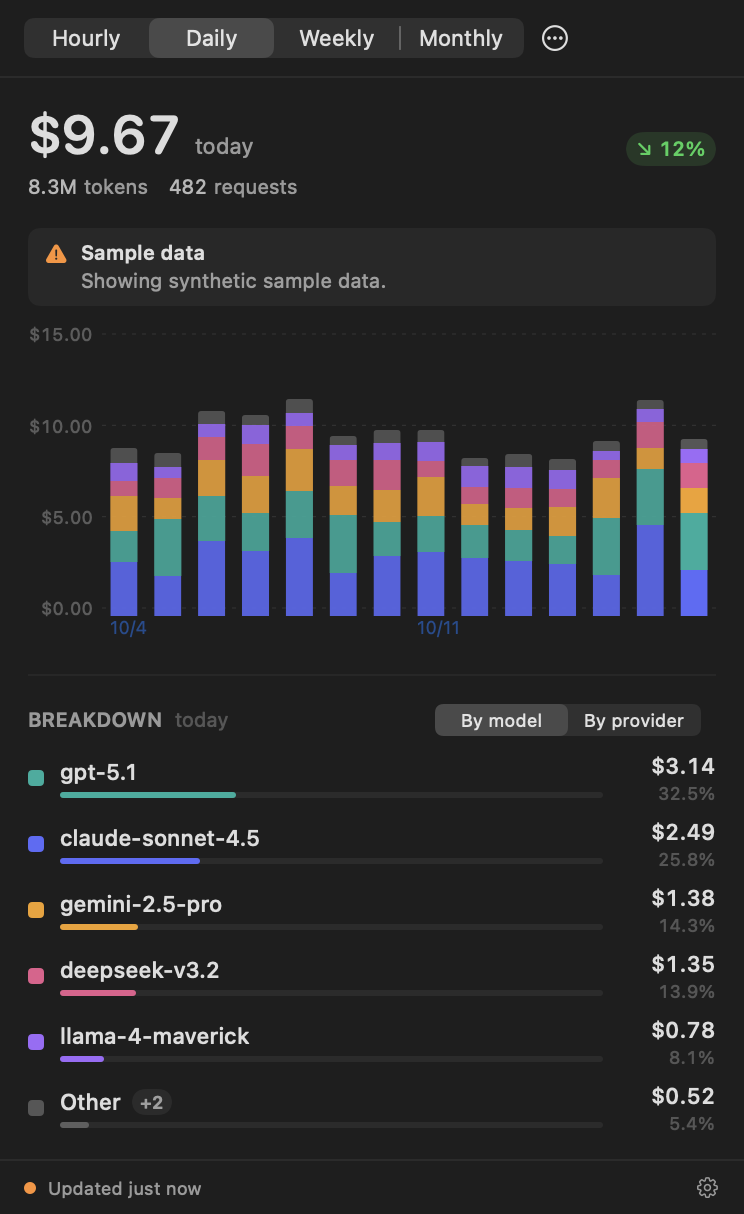
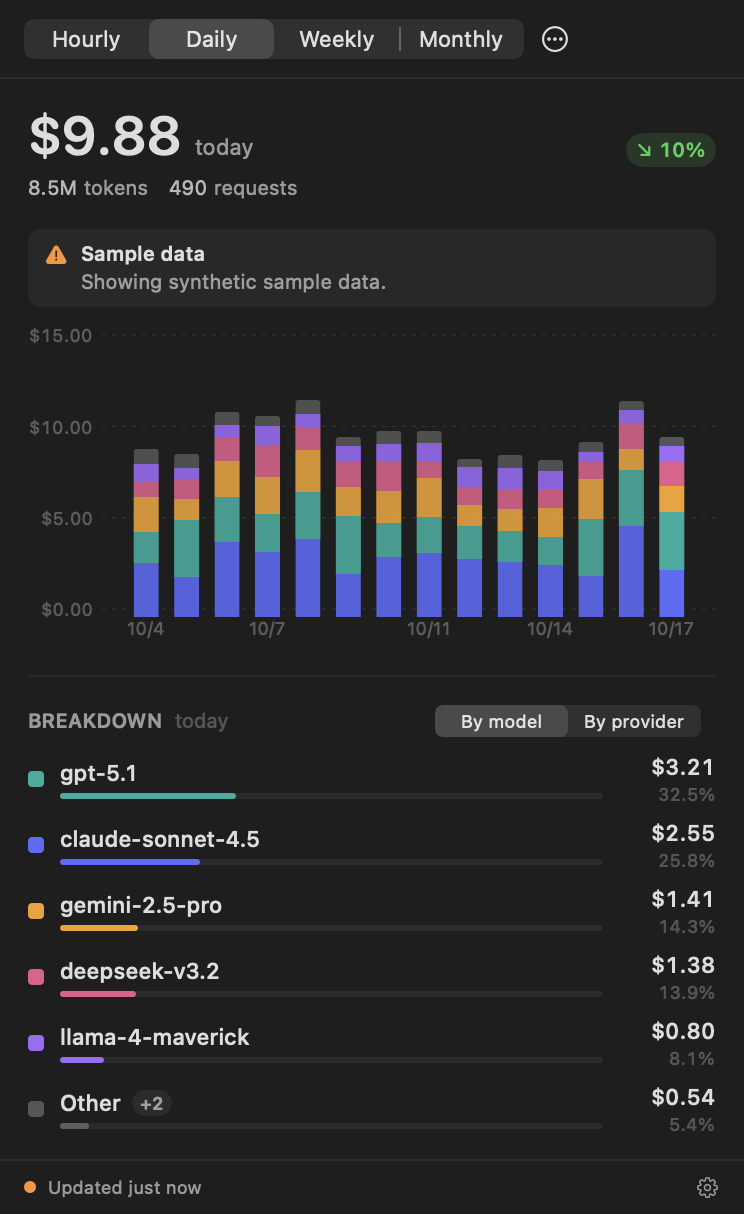
fix: center the chart's axis labels under their bars
Buckets were plotted as date bins (`x: .value(_, start, unit:)`), and Charts
anchors a binned bar to the leading edge of its bin while drawing the tick
label on the bin start. Every label therefore sat under the left side of its
bar and, on the first bucket, overhung the plot.

Plot each bucket as a categorical band keyed by its start instead: bands
centre the mark and the label on the same axis position. The category is a
string key rather than the `Date` because Charts treats dates as continuous
values, where marks stop stacking and a relative bar width degenerates.

Labels are now chosen by `SpendWindow.axisLabelIndices`, which spreads them
evenly and always includes the first and last bucket, so the range start and
the in-progress bucket the headline reports are both readable. Plot padding
keeps the outermost labels from clipping.

Regenerates the popover screenshots.

diff --git a/Sources/TokenMeter/Views/SpendChart.swift b/Sources/TokenMeter/Views/SpendChart.swift
@@ -26,13 +26,45 @@ struct SpendChart: View {
         .accessibilityLabel(accessibilitySummary)
     }
 
+    /// One x-axis category per bucket.
+    ///
+    /// Buckets are plotted as categorical bands rather than as date bins: a
+    /// date-bin mark is anchored to the leading edge of its bin, so an axis
+    /// label sitting on the bucket start hangs off the left side of the bar. A
+    /// band centres both the bar and its label.
+    ///
+    /// The category is a key derived from the start rather than the start
+    /// itself, because `Date` is a continuous value to Charts and continuous
+    /// axes neither stack marks nor honour a relative bar width. The key is also
+    /// unique even when two buckets format to the same label, as an hourly
+    /// window spanning midnight does.
+    private struct AxisBucket: Hashable {
+        let start: Date
+        let isCurrent: Bool
+
+        var key: String {
+            "\(start.timeIntervalSinceReferenceDate)"
+        }
+    }
+
+    private var axisBuckets: [AxisBucket] {
+        report.buckets.map { AxisBucket(start: $0.start, isCurrent: $0.isCurrent) }
+    }
+
+    private func labelledBuckets(in buckets: [AxisBucket]) -> [AxisBucket] {
+        bucketing.window
+            .axisLabelIndices(bucketCount: buckets.count, tickCount: bucketing.window.axisTickCount)
+            .map { buckets[$0] }
+    }
+
     private var chart: some View {
-        Chart {
+        let buckets = axisBuckets
+        return Chart {
             ForEach(Array(report.orderedSeries.enumerated()), id: \.element.id) { index, series in
-                ForEach(Array(report.buckets.enumerated()), id: \.element.id) { bucketIndex, bucket in
+                ForEach(Array(buckets.enumerated()), id: \.element) { bucketIndex, bucket in
                     let amount = series.amounts.indices.contains(bucketIndex) ? series.amounts[bucketIndex] : 0
                     BarMark(
-                        x: .value("Time", bucket.start, unit: bucketing.window.bucketComponent),
+                        x: .value("Time", bucket.key),
                         y: .value("Spend", amount.doubleValue),
                         width: .ratio(0.62)
                     )
@@ -42,11 +74,19 @@ struct SpendChart: View {
                 }
             }
         }
+        // Room either side so the outermost labels are not clipped by the plot
+        // edge now that they are centred on the last band rather than hanging
+        // off its leading edge.
+        .chartXScale(range: .plotDimension(startPadding: 12, endPadding: 12))
         .chartXAxis {
-            AxisMarks(values: .automatic(desiredCount: bucketing.window.axisTickCount)) { _ in
-                AxisValueLabel(format: bucketing.window.axisFormat)
-                    .font(.system(size: 9))
-                    .foregroundStyle(.secondary)
+            AxisMarks(values: labelledBuckets(in: buckets).map(\.key)) { value in
+                AxisValueLabel {
+                    if let key = value.as(String.self), let bucket = buckets.first(where: { $0.key == key }) {
+                        Text(bucket.start.formatted(bucketing.window.axisFormat))
+                            .font(.system(size: 9))
+                            .foregroundStyle(.secondary)
+                    }
+                }
             }
         }
         .chartYAxis {

diff --git a/Sources/TokenMeterKit/Core/SpendWindow.swift b/Sources/TokenMeterKit/Core/SpendWindow.swift
@@ -77,6 +77,29 @@ public enum SpendWindow: String, CaseIterable, Codable, Sendable, Identifiable {
         self
     }
 
+    /// Indices of the chart buckets that should carry an axis label. Labels are
+    /// spread evenly and always include the first and last bucket, so the start
+    /// of the range and the in-progress bucket the headline reports stay
+    /// legible without crowding the axis.
+    ///
+    /// - Parameters:
+    ///   - bucketCount: how many buckets the chart is drawing.
+    ///   - tickCount: the most labels the axis should carry.
+    public func axisLabelIndices(bucketCount: Int, tickCount: Int) -> [Int] {
+        guard bucketCount > 2 else { return Array(0 ..< max(0, bucketCount)) }
+        let labelCount = min(bucketCount, max(2, tickCount))
+        let last = bucketCount - 1
+        var indices: [Int] = []
+        indices.reserveCapacity(labelCount)
+        for step in 0 ..< labelCount {
+            let index = Int((Double(step) * Double(last) / Double(labelCount - 1)).rounded())
+            if indices.last != index {
+                indices.append(index)
+            }
+        }
+        return indices
+    }
+
     public func bucketLabel(for start: Date, calendar: Calendar) -> String {
         switch self {
         case .hourly:

diff --git a/Tests/TokenMeterKitTests/BucketingTests.swift b/Tests/TokenMeterKitTests/BucketingTests.swift
@@ -155,6 +155,20 @@ struct BucketingTests {
         }
     }
 
+    @Test("Axis labels are evenly spread and pin both ends of the chart")
+    func axisLabelIndices() {
+        // Fourteen daily buckets, five labels: both ends labelled, no crowding.
+        #expect(SpendWindow.daily.axisLabelIndices(bucketCount: 14, tickCount: 5) == [0, 3, 7, 10, 13])
+        // One label per bucket when the axis has room for them all.
+        #expect(SpendWindow.monthly.axisLabelIndices(bucketCount: 6, tickCount: 6) == [0, 1, 2, 3, 4, 5])
+        // Never fewer than the two ends, however small the tick budget.
+        #expect(SpendWindow.hourly.axisLabelIndices(bucketCount: 24, tickCount: 1) == [0, 23])
+        // Degenerate charts still label every bar they have.
+        #expect(SpendWindow.daily.axisLabelIndices(bucketCount: 1, tickCount: 5) == [0])
+        #expect(SpendWindow.daily.axisLabelIndices(bucketCount: 2, tickCount: 5) == [0, 1])
+        #expect(SpendWindow.daily.axisLabelIndices(bucketCount: 0, tickCount: 5).isEmpty)
+    }
+
     @Test("Any instant lands in exactly one bucket")
     func partition() throws {
         let calendar = Self.calendar()
